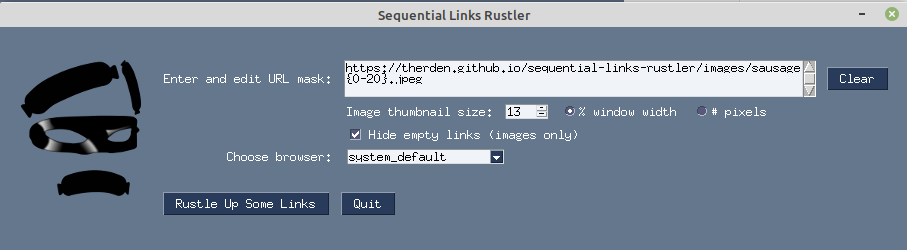
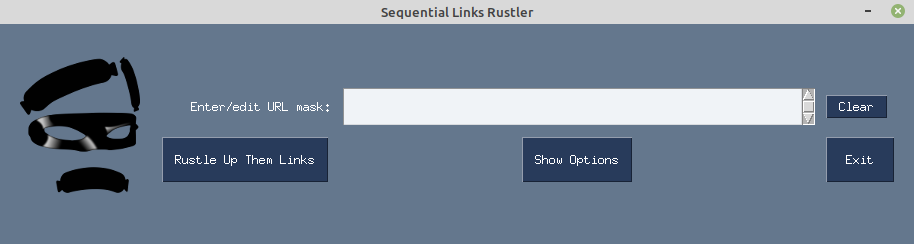
Updated README.md and screenshots to reflect new Options and the Show Options/Hide Options GUI.

diff --git a/README.md b/README.md
@@ -53,24 +53,52 @@ the sequence definition is `{0-20}`. From this URL mask, __Sequential Links Rust
 <img width="90%" align="center" src="assets/Links_screenshot.png">
 </figure>
 
-Special features for image links
+Options
+-------
+__Sequential Links Rustler__ has several options for re-configuring aspects of its operation.  
+
+To access them, click the _Show Options_ button.  (The button text will change to _Hide Options_.)
+
+<figure>
+<img width="90%" align="center" src="assets/SLR_Options_screenshot.png">
+</figure>
+
+Options for image links
 --------------------------------
-- __Specify the size of thumbnail images as % of browser window__
+- __Specify the size of thumbnail images as % of browser window width__
+
+  Use the spinner to increase or decrease from the default value of 13%.
 
 - __Choose whether to hide or display links to inaccessible image files__
+
+  By default, broken links are displayed; but if you want to see links only for images that load successfully, check "Hide broken image links"
+
 <!-- - #### Specify a separate URL mask for thumbnail images from full-size images -->
 
-Other Features
----------------
-<!-- - #### Choose the location where the generated HTML file will be saved -->
-<!-- - #### Choose name of the generated HTML file that's generated -->
+Other Options
+-------------
+- __Choose alternate location to save the generated HTML file__
+
+  The HTML files generated by __Sequential Links Rustler__ are saved to your home directory by default -- you can specify an alternate location during the current session.
+
+- __Choose alternate name for the generated HTML file__
+
+  By default, the filename will be "rustled.html" -- but you can specify another name during the current session.
+
+- __Delete HTML file on Exit__
+
+    By default, __Sequential Links Rustler__ will delete the last file it generated when it exits.  If you prefer to retain the file, uncheck
+
 - __Choose the browser in which the generated HTML file will open__
 
-- __Advanced "sequence definition" features__
-    -  zero padding of values
-    -  declining values within a sequence
-    -  custom intervals between values
-    -  including multiple sequence definitions within a single URL mask
+    Note: if you choose a browser that is not available on your system, no error message will be displayed -- the generated file just won't be opened.
+
+Advanced "sequence definition" features
+---------------------------------------
+-  zero padding of sequence values
+-  sequences of *declining* values
+-  custom intervals between values
+-  multiple sequence definitions within a single URL mask
 
 For detailed information about these options, and more example URL masks, see [the GitHub pages associated with this project](https://therden.github.io/sequential-links-rustler/).
 
